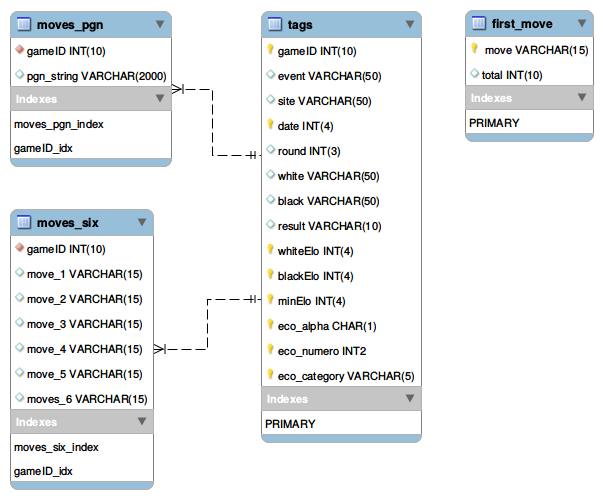
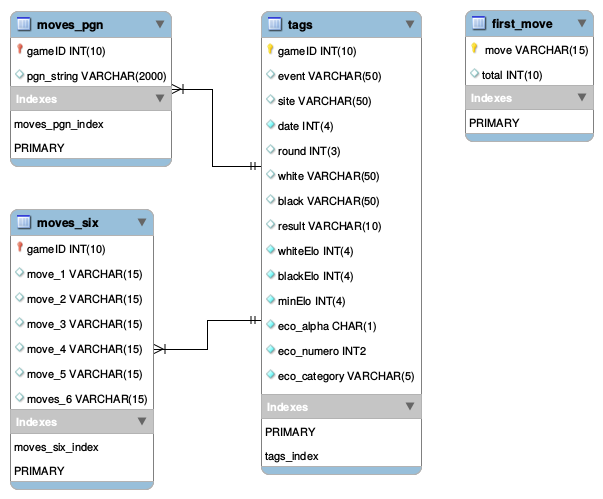
Describe database structure in report

diff --git a/report/report.tex b/report/report.tex
@@ -390,22 +390,124 @@ quickly as possible.
 
 \subsection{Design of the database}
 The Database is comprised of four tables, shown as an entity relationship
-(ER) model in figure \ref{figure:4}. 
+(ER) model in figure \ref{figure:4}.
 
 \begin{figure}[h]
 	\includegraphics[width=10cm]{EER}
 	\caption{Entity Relationship model of the database used to store the
-	chess move and tag data.}
+	chess move and tag data}
 	\label{figure:4}
 \end{figure}
 
 The first and most important table is the tags table.  It stores the seven
-tags required in pgn files (event name, site name, date, 
-), as well as the optional information that we had
-to include for this project.  The primary key is a field called gameID,
-which is simply incremented with every entry added to the database.  For a
-game to be included, the seven 
+tags required in pgn files (event name, site name, date, round number, the
+names of both players and the game result), as well as the optional information
+that we had to include for this project (The elo of both players and the
+ECO code of the opening). As the ECO code is crucial for this project but
+optional in pgn notation, games for which no ECO code was provided are
+ommitted. The primary key is a field called gameID, which is simply incremented
+with every entry added to the database. The minimum value of the ELO's of
+the two players is computed and added to its own field, to streamline
+certain queries.  All queries that are included to meet the minimum
+requirements of the project query only on this table.
+The data definition language (DDL) of the tags table is shown in listing
+\ref{lst:1}.
 
+\begin{figure}[h]
+	\begin{lstlisting}[label={lst:1}, language=sql, frame=single, caption=DDL describing the structure of the tags table]
+CREATE TABLE tags
+(gameID INT(10) PRIMARY KEY,
+event VARCHAR(50),
+site VARCHAR(50),
+date INT(4),
+round INT(3),
+white VARCHAR(50),
+black VARCHAR(50),
+result VARCHAR(10),
+whiteElo INT(4),
+blackElo INT(4),
+minElo INT(4),
+eco_alpha CHAR(1),
+eco_numero INT(2),
+eco_category VARCHAR(5));
+	\end{lstlisting}
+\end{figure}
+
+The moves\_six table and the moves\_pgn tables are responsible for storing
+the moves sequences of games that have valid moves sequences documented.
+The moves\_six table stores up to the first six moves of a given game, and
+has a foreign key, gameID, that references the tags table's gameID.  Games
+with fewer than six moves have their remaining columns filled with empty
+strings. Before moves\_pgn is created, the pgn file from which the data
+is populated is preparsed, and the longest moves string sequence determined.
+Thereafter, moves\_pgn is created with a foreign key, gameID that
+references the gameID field in the tags table and the pgn\_string field.
+This field is a variable character field, up to the number of characters of
+the longest move sequence in the pgn file.
+
+The data definition language (DDL) of the moves\_six table is shown in listing
+\ref{lst:3}, and that of moves\_pgn in listing \ref{lst:4}. Listing
+\ref{lst:5} gives the DDL defining the indices on the three tables.
+
+\begin{figure}[h]
+	\begin{lstlisting}[label={lst:3}, language=sql, frame=single,
+	caption=DDL describing the structure of the moves\_six table]
+CREATE TABLE moves_six
+(gameID INT(10) PRIMARY KEY REFERENCES tags.gameID,
+move_1 VARCHAR(15),
+move_2 VARCHAR(15),
+move_3 VARCHAR(15),
+move_4 VARCHAR(15),
+move_5 VARCHAR(15),
+move_6 VARCHAR(15));
+	\end{lstlisting}
+\end{figure}
+
+\begin{figure}[h]
+	\begin{lstlisting}[label={lst:4}, language=sql, frame=single,
+	caption=DDL describing the structure of the moves\_pgn table]
+CREATE TABLE moves_pgn
+(gameID INT(10) PRIMARY KEY REFERENCES tags.gameID,
+pgn_string VARCHAR(<longest>));
+	\end{lstlisting}
+\end{figure}
+
+\begin{figure}[h]
+	\begin{lstlisting}[label={lst:5}, language=sql, frame=single,
+	caption=DDL describing the structure of the various indices]
+CREATE INDEX ON tags
+(date,
+eco_alpha,
+eco_category,
+eco_numero,
+minElo,
+whiteElo,
+blackElo);
+
+CREATE INDEX ON moves_six
+(move_1,
+move_2,
+move_3,
+move_4,
+move_5,
+move_6);
+
+CREATE INDEX ON moves_pgn (pgn_string);
+	\end{lstlisting}
+\end{figure}
+Finally, a first\_move table is created, with two columns, move and total.
+It stores the results of the query in listing \ref{lst:2} that gets used for the
+additional features under play.html:
+
+\begin{figure}[h]
+	\begin{lstlisting}[label={lst:2}, language=sql, frame=single,
+	caption=query populating table first\_move]
+	INSERT INTO first_move(move, total)
+	SELECT m.move_1, COUNT(*)
+	FROM moves_six m
+	GROUP BY m.move_1;
+	\end{lstlisting}
+\end{figure}
 
 \subsection{Populating database}
 The parser started with a naive approach of putting each game into the
@@ -545,17 +647,20 @@ seconds.
 
 The execution graphic of the database without and index is shown in figure
 \ref{figure:2}, while the graphic of the same query is shown in figure
-\ref{figure:3}. The query performed looked as follows:
+\ref{figure:3}. The query performed is shown in listing \ref{lst:6}:
 
-\begin{lstlisting}[language=sql, frame=single]
-SELECT date, CONCAT(eco\_alpha, eco\_numero) as eco,
+\begin{figure}[h]
+	\begin{lstlisting}[label={lst:6}, language=sql, frame=single,
+	caption=Query used showing explanations of queries]
+SELECT date, CONCAT(eco_alpha, eco_numero) as eco,
 count(*) AS popularity
 FROM tags
-WHERE date >= 1900 AND date <= 2000 AND eco\_numero >= 10
-AND eco\_numero <= 30 AND eco\_alpha = 'A'
+WHERE date >= 1900 AND date <= 2000 AND eco_numero >= 10
+AND eco_numero <= 30 AND eco_alpha = 'A'
 group by eco, date
 ORDER BY date, popularity DESC;
-\end{lstlisting}
+	\end{lstlisting}
+\end{figure}
 
 As expected, the query without an index table had to do a full table scan,
 while the query on the indexed table had a significant reduction in the
